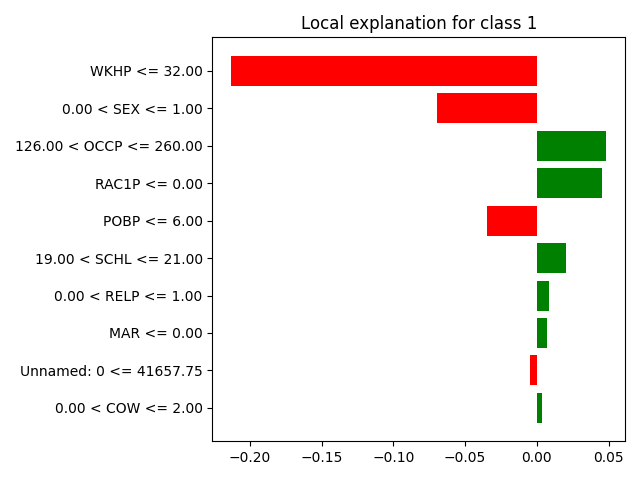
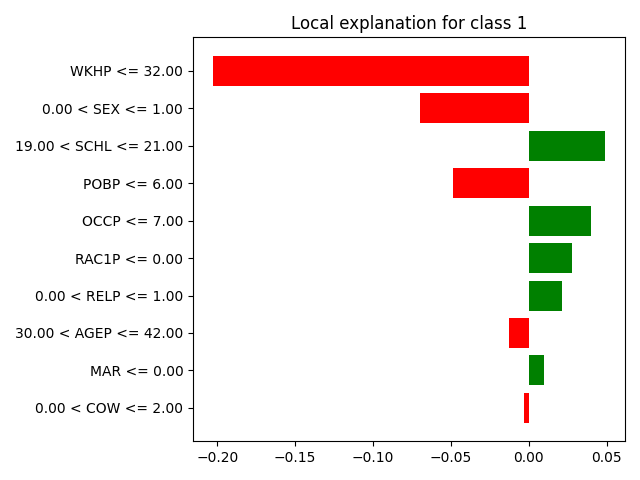
add: experimentation sheet + undated param optimization

diff --git a/utils.py b/utils.py
@@ -52,19 +52,22 @@ class ModelTester():
             self.predictions = self.model.predict(x_test if x_test is not None else self.X_test)
         return self.predictions
 
-    def test_model(self, in_logs=False):
+    def test_model(self, in_logs=False, file_name_prefix=""):
         start_time = time()
         self.model.fit(self.X_train, self.y_train)
         self.train_time = time() - start_time
-        preds = self.predict()
+        start_time = time()
+        self.predict()
+        self.test_time = time() - start_time
         self.score_model()
         self.train_score = accuracy_score(self.y_train, self.model.predict(self.X_train))
-        print(f"{self.model.__class__.__name__} || Test score: {self.test_score} | Train score: {self.train_score} | Training time: {self.train_time:.2f} seconds")
+        print(f"{self.model.__class__.__name__} || Test score: {self.test_score} | Train score: {self.train_score} | Training time: {self.train_time:.2f} seconds || Test time: {self.test_time:.2f} seconds")
         if in_logs:
             with open("logs", "a") as f:
-                f.write(f"{self.model.__class__.__name__} || Test score: {self.test_score} | Train score: {self.train_score} | Training time: {self.train_time:.2f} seconds\n")
-        self.save_confusion_matrix()
-        self.save_classification_report()
+                f.write(f"{self.model.__class__.__name__} || Test score: {self.test_score} | Train score: {self.train_score} | Training time: {self.train_time:.2f} seconds || Test time: {self.test_time:.2f} seconds\n")
+        self.save_confusion_matrix(file_name_prefix=file_name_prefix)
+        self.save_confusion_matrix(train=True, file_name_prefix=file_name_prefix)
+        self.save_classification_report(file_name_prefix=file_name_prefix)
         return self.test_score
     
     def score_model(self, x_test=None):
@@ -72,16 +75,20 @@ class ModelTester():
         self.test_score = accuracy_score(self.y_test, preds)
         return self.test_score
     
-    def save_confusion_matrix(self):
-        y_pred = self.model.predict(self.X_test)
-        cm = confusion_matrix(self.y_test, y_pred)
+    def save_confusion_matrix(self, train=False, file_name_prefix=""):
+        if train:
+            y_pred = self.model.predict(self.X_train)
+            cm = confusion_matrix(self.y_train, y_pred)
+        else:
+            y_pred = self.model.predict(self.X_test)
+            cm = confusion_matrix(self.y_test, y_pred)
         disp = ConfusionMatrixDisplay(cm)
         disp.plot()
-        plt.savefig(path.join("images", self.model.__class__.__name__, "confusion_matrix.png"))
+        plt.savefig(path.join("images", self.model.__class__.__name__, f"{file_name_prefix}confusion_matrix.png" if not train else f"{file_name_prefix}confusion_matrix_train.png"))
         plt.close()
 
-    def save_classification_report(self):
+    def save_classification_report(self, file_name_prefix=""):
         y_pred = self.model.predict(self.X_test)
         report = classification_report(self.y_test, y_pred)
-        with open(path.join("images", self.model.__class__.__name__, "classification_report.txt"), "w") as f:
+        with open(path.join("images", self.model.__class__.__name__, f"{file_name_prefix}classification_report.txt"), "w") as f:
             f.write(str(report))

diff --git a/paramOptimization.py b/paramOptimization.py
@@ -3,10 +3,24 @@ from sklearn.base import clone
 from sklearn.model_selection import cross_val_score
 import numpy as np
 
+# Adeboost param grid
+# param_grid = {
+#     'learning_rate': ('choice', [0.01, 0.05, 0.1]),
+#     'max_depth': {'type':'int', 'low':1, 'high':17, 'step':2},
+#     'n_estimators': {'type':'int', 'low':50, 'high':450, 'step':10},
+# }
+
+# XGBoost param grid
+# param_grid = {
+#     'learning_rate': ('choice', [0.01, 0.05, 0.1, 0.3]),
+#     'max_depth': {'type':'int', 'low':1, 'high':17, 'step':2},
+#     'n_estimators': {'type':'int', 'low':50, 'high':450, 'step':10},
+# }
+
+# RandomForest param grid
 param_grid = {
-    # 'learning_rate': ('uniform', 0.001, 0.3),
-    'max_depth': ('int', 3, 20),
-    'n_estimators': ('int', 50, 500),
+    'max_depth': {'type':'int', 'low':3, 'high':20, 'step':3},
+    'n_estimators': {'type':'int', 'low':50, 'high':450, 'step':10},
 }
 
 
@@ -40,19 +54,32 @@ def tune_optuna(param_space, model, X, y, n_trials=40, cv=3, random_state=305):
     best_score = float(study.best_value)
     return best_params, best_score, study
 
+from sys import argv
 
-# Example usage (same as original):
-from xgboost import XGBClassifier
+if len(argv) > 1:
+    match argv[1]:
+        case "rf":
+            from sklearn.ensemble import RandomForestClassifier
+            clf = RandomForestClassifier()
+        case "ab":
+            from sklearn.ensemble import AdaBoostClassifier
+            clf = AdaBoostClassifier()
+        case _:
+            from xgboost import XGBClassifier
+            clf = XGBClassifier(enable_categorical=True)
+        
+else:
+    from xgboost import XGBClassifier
+    clf = XGBClassifier(enable_categorical=True)
+
 from pandas import read_csv
 from numpy import ravel
-
-clf = XGBClassifier(enable_categorical=True)
 
 X = read_csv("data/cleaned_features.csv")
 categorical = ['COW', 'MAR', 'OCCP', 'POBP', 'RELP', 'SEX', 'RAC1P']
 X[categorical] = X[categorical].astype("category").apply(lambda s: s.cat.codes)
 y = ravel(read_csv("data/alt_acsincome_ca_labels_85.csv"))
 
-best_params, best_score, study = tune_optuna(param_grid, clf, X, y, n_trials=40, cv=3)
+best_params, best_score, study = tune_optuna(param_grid, clf, X, y, n_trials=20, cv=3)
 with open("param_opt_logs", "a", encoding="utf-8") as f:
-    f.write(f"{best_params} {best_score}\n")
+    f.write(f"{best_params} {best_score} {clf.__class__.__name__}\n")

diff --git a/XGBoostTests.py b/XGBoostTests.py
@@ -1,6 +1,8 @@
 from xgboost import XGBClassifier
 from utils import ModelTester
 
-clf = XGBClassifier(enable_categorical=True)
+params = {'learning_rate': 0.05, 'max_depth': 6, 'n_estimators': 400}
+
+clf = XGBClassifier(**params, enable_categorical=True)
 tester = ModelTester(clf)
-tester.test_model()
+tester.test_model(file_name_prefix="optimized_")

diff --git a/CR-TP-ML.md b/CR-TP-ML.md
@@ -1,0 +1,188 @@
+#######################################################################
+
+# Binome : BEZMATERNYKH Igor / AUDIC Clément
+
+#
+
+## Jeu de données : pré-traitement
+
+Donnez la liste des features et ce qu'elles représentent (préciser les éventuels changements effectués en pré-traitement ou si pas de changement)
+
+- Liste des features :
+
+* AGEP : L'age de la personne
+* COW : Classe d'emploi (Civilian employed, Unemployed, Not in labor force, Armed forces)
+* SCHL : Niveau d'éducation
+* MAR : Statut marital
+* OCCP : Emploi occupé en code que nous avons regrouppé en catégories
+* POBP : Place of birth que nous avons regrouppé par régions géographiques (Afrique du Nord, Europe de l'Est)
+* RELP : Relation par rapport à la personne possèdant le logement
+* WKHP : Nombre d'heures travaillées par semaine
+* SEX : Sexe
+* RAC1P : Ethnicité
+
+## Expérimentation 1 : Comparaison de modèles par défaut
+
+- Jeux de données utilisé :
+
+  - Taille ensemble d'entrainement (nb lignes et nb colonnes) : 124736 lignes et 10 colonnes
+  - Taille ensemble de test (nb lignes et nb colonnes) : 41579 lignes et 10 colonnes
+
+- Résultats (hyper-paramètres par défaut)
+
+| Evaluation en train                 | Random Forest                                                   | Adaboost                                                    | XGBoost                                                |
+| ----------------------------------- | --------------------------------------------------------------- | ----------------------------------------------------------- | ------------------------------------------------------ |
+| accuracy                            | 0.9876699589533093                                              | 0.7991918932786044                                          | 0.8361018471010775                                     |
+| Temps calcul (temps d'entrainement) | 23.58                                                           | 6.59                                                        | 1.77                                                   |
+| Matrice confusion                   | ![cm](images/RandomForestClassifier/confusion_matrix_train.png) | ![cm](images/AdaBoostClassifier/confusion_matrix_train.png) | ![cm](images/XGBClassifier/confusion_matrix_train.png) |
+
+</br>
+
+| Evaluation en test               | Random Forest                                             | Adaboost                                              | XGBoost                                          |
+| -------------------------------- | --------------------------------------------------------- | ----------------------------------------------------- | ------------------------------------------------ |
+| accuracy                         | 0.7996584814449602                                        | 0.7965800043291085                                    | 0.8172394718487698                               |
+| Temps calcul (Temps d'inférence) | 1.27                                                      | 0.54                                                  | 0.05                                             |
+| Matrice confusion                | ![cm](images/RandomForestClassifier/confusion_matrix.png) | ![cm](images/AdaBoostClassifier/confusion_matrix.png) | ![cm](images/XGBClassifier/confusion_matrix.png) |
+
+- Commentaires et Analyse :
+  On remarque que le RandomForest a tendence à énormément overfit avec un score d'entrainement proche de 1 mais un score de test bien plus faible. L'Adaboost et le XGBoost ont des scores d'entrainement et de test plus proches, mais le XGBoost a de meilleurs performances globales. On remarque aussi que XGBoost est plusieurs fois plus rapide que les autres. Les temps d'inférence sont pluls proches mais on remarque que le XGBoost est plus optimisé puisqu'il est 10 fois plus rapide que les autres.
+
+## Expérimentation 2 : Comparaison Modèles ML par défaut
+
+- Jeux de données utilisé :
+  - Taille ensemble d'entrainement : 124736 lignes et 10 colonnes
+  - Taille ensemble de test : 41579 lignes et 10 colonnes
+
+### Random Forest (RF)
+
+- Processus d'entrainement :
+  - Recherche des hyperparamètres : Utilisation d'Optuna, une bibliothéque faisant de la recherche de paramètres par optimisation bayésienne plutôt que par recherche exhaustive.
+  - Listes des hyperparamètres testés et valeurs :
+    > 'learning_rate': ('choice', [0.01, 0.05, 0.1]),
+    > 'max_depth': ('choice', [1, 3, 6, 10, 15, 20]),
+    > 'n_estimators': ("choice", [50, 100, 200, 300, 400]),
+  - Nombre de plis pour la validation croisée : 3
+  - Nombre total d'entrainement : $20 \times 3 = 60$
+- Résultats :
+  - Meilleurs hyperparamètres :
+    > {'learning_rate': 0.05, 'max_depth': 6, 'n_estimators': 400}
+  - Performances en entraintement :
+    - Accuracy :
+    - Temps de calcul :
+    - Matrice de Confusion :
+  - Performance en test :
+    - Accuracy :
+      > 0.8201785741810825
+    - Temps de calcul :
+    - Matrice de Confusion :
+  - Commentaires / analyses (par rapport résultat expe 1)
+
+### ADABOOST
+
+- Processus d'entrainement :
+  - Recherche des hyperparamètres
+  - Listes des hyperparamètres testés et valeurs :
+    > 'learning_rate': ('choice', [0.01, 0.05, 0.1]),
+    > 'max_depth': ('choice', [3, 6, 10, 15, 20]),
+    > 'n_estimators': ("choice", [50, 100, 200, 300, 400]),
+  - Nombre de plis pour la validation croisée :
+  - Nombre total d'entrainement :
+- Résultats :
+  - Meilleurs hyperparamètres :
+  - Performances en entraintement :
+  - Accuracy :
+  - Temps de calcul :
+  - Matrice de Confusion :
+  - Performance en test :
+  - Accuracy :
+  - Temps de calcul :
+  - Matrice de Confusion :
+  - Commentaires / analyses (par rapport résultat expe 1)
+
+### XGBOOST
+
+- Processus d'entrainement :
+  - Recherche des hyperparamètres
+  - Listes des hyperparamètres testés et valeurs :
+    > 'learning_rate': ('choice', [0.05, 0.1, 0.3]),
+    > 'max_depth': ('choice', [3, 6, 10, 15, 20]),
+    > 'n_estimators': ("choice", [50, 100, 200, 400])
+  - Nombre de plis pour la validation croisée :
+  - Nombre total d'entrainement :
+- Résultats :
+  - Meilleurs hyperparamètres :
+    > {'learning_rate': 0.05, 'max_depth': 6, 'n_estimators': 400}
+  - Performances en entraintement :
+    - Accuracy :
+    - Temps de calcul :
+    - Matrice de Confusion :
+  - Performance en test :
+    - Accuracy :
+      > 0.8201785741810825
+    - Temps de calcul :
+    - Matrice de Confusion :
+  - Commentaires / analyses (par rapport résultat expe 1)
+
+## Expérimentation 3 : Comparaison des "meilleurs modèles
+
+- Jeux de données utilisé :
+
+  - Taille ensemble d'entrainement (nb lignes et nb colonnes) :
+  - Taille ensemble de test (nb lignes et nb colonnes) :
+
+- Résultats des meilleurs modèles obtenus dans Expe 2
+
+| Evaluation en train    | Random Forest   | Adaboost   | XGBoost   |
+| ---------------------- | --------------- | ---------- | --------- |
+| accuracy               |                 |            |           |
+| ---------------------- | --------------- | ---------- | --------- |
+| Temps calcul           |                 |            |           |
+| ---------------------- | --------------- | ---------- | --------- |
+| Matrice confusion      |                 |            |           |
+| ---------------------- | --------------- | ---------- | --------- |
+
+| Evaluation en test     | Random Forest   | Adaboost   | XGBoost   |
+| ---------------------- | --------------- | ---------- | --------- |
+| accuracy               |                 |            |           |
+| ---------------------- | --------------- | ---------- | --------- |
+| Temps calcul           |                 |            |           |
+| ---------------------- | --------------- | ---------- | --------- |
+| Matrice confusion      |                 |            |           |
+| ---------------------- | --------------- | ---------- | --------- |
+
+- Commentaires et Analyse :
+
+## Expérimentation 4 : inférence sur un autre jeu de données (optionnel)
+
+Résultats / Commentaires / Analyses :
+
+## Expérimentation 5 : impact de la taille du jeu de données
+
+Résultats / Commentaires / Analyses :
+
+## Modèle choisi pour la suite :
+
+- quel modèle :
+- pourquoi ?
+
+## Explicabilité : "permutation feature importance"
+
+- Résultats obtenus :
+- Analyses :
+
+## Explicabilité : avec LIME et SHAP
+
+- Méthode LIME
+  - Exemple(s) choisi(s)
+  - Résultats
+  - Commentaires / analyses
+- Méthode SHAP
+  - Exemple(s) choisi(s)
+  - Résultats
+  - Commentaires / analyses
+- Comparaison LIME et SHAP
+- Analyse summary-plot de SHAP
+
+## Explicabilité : contrefactuelle
+
+Résultats / Commentaires / Analyses :
